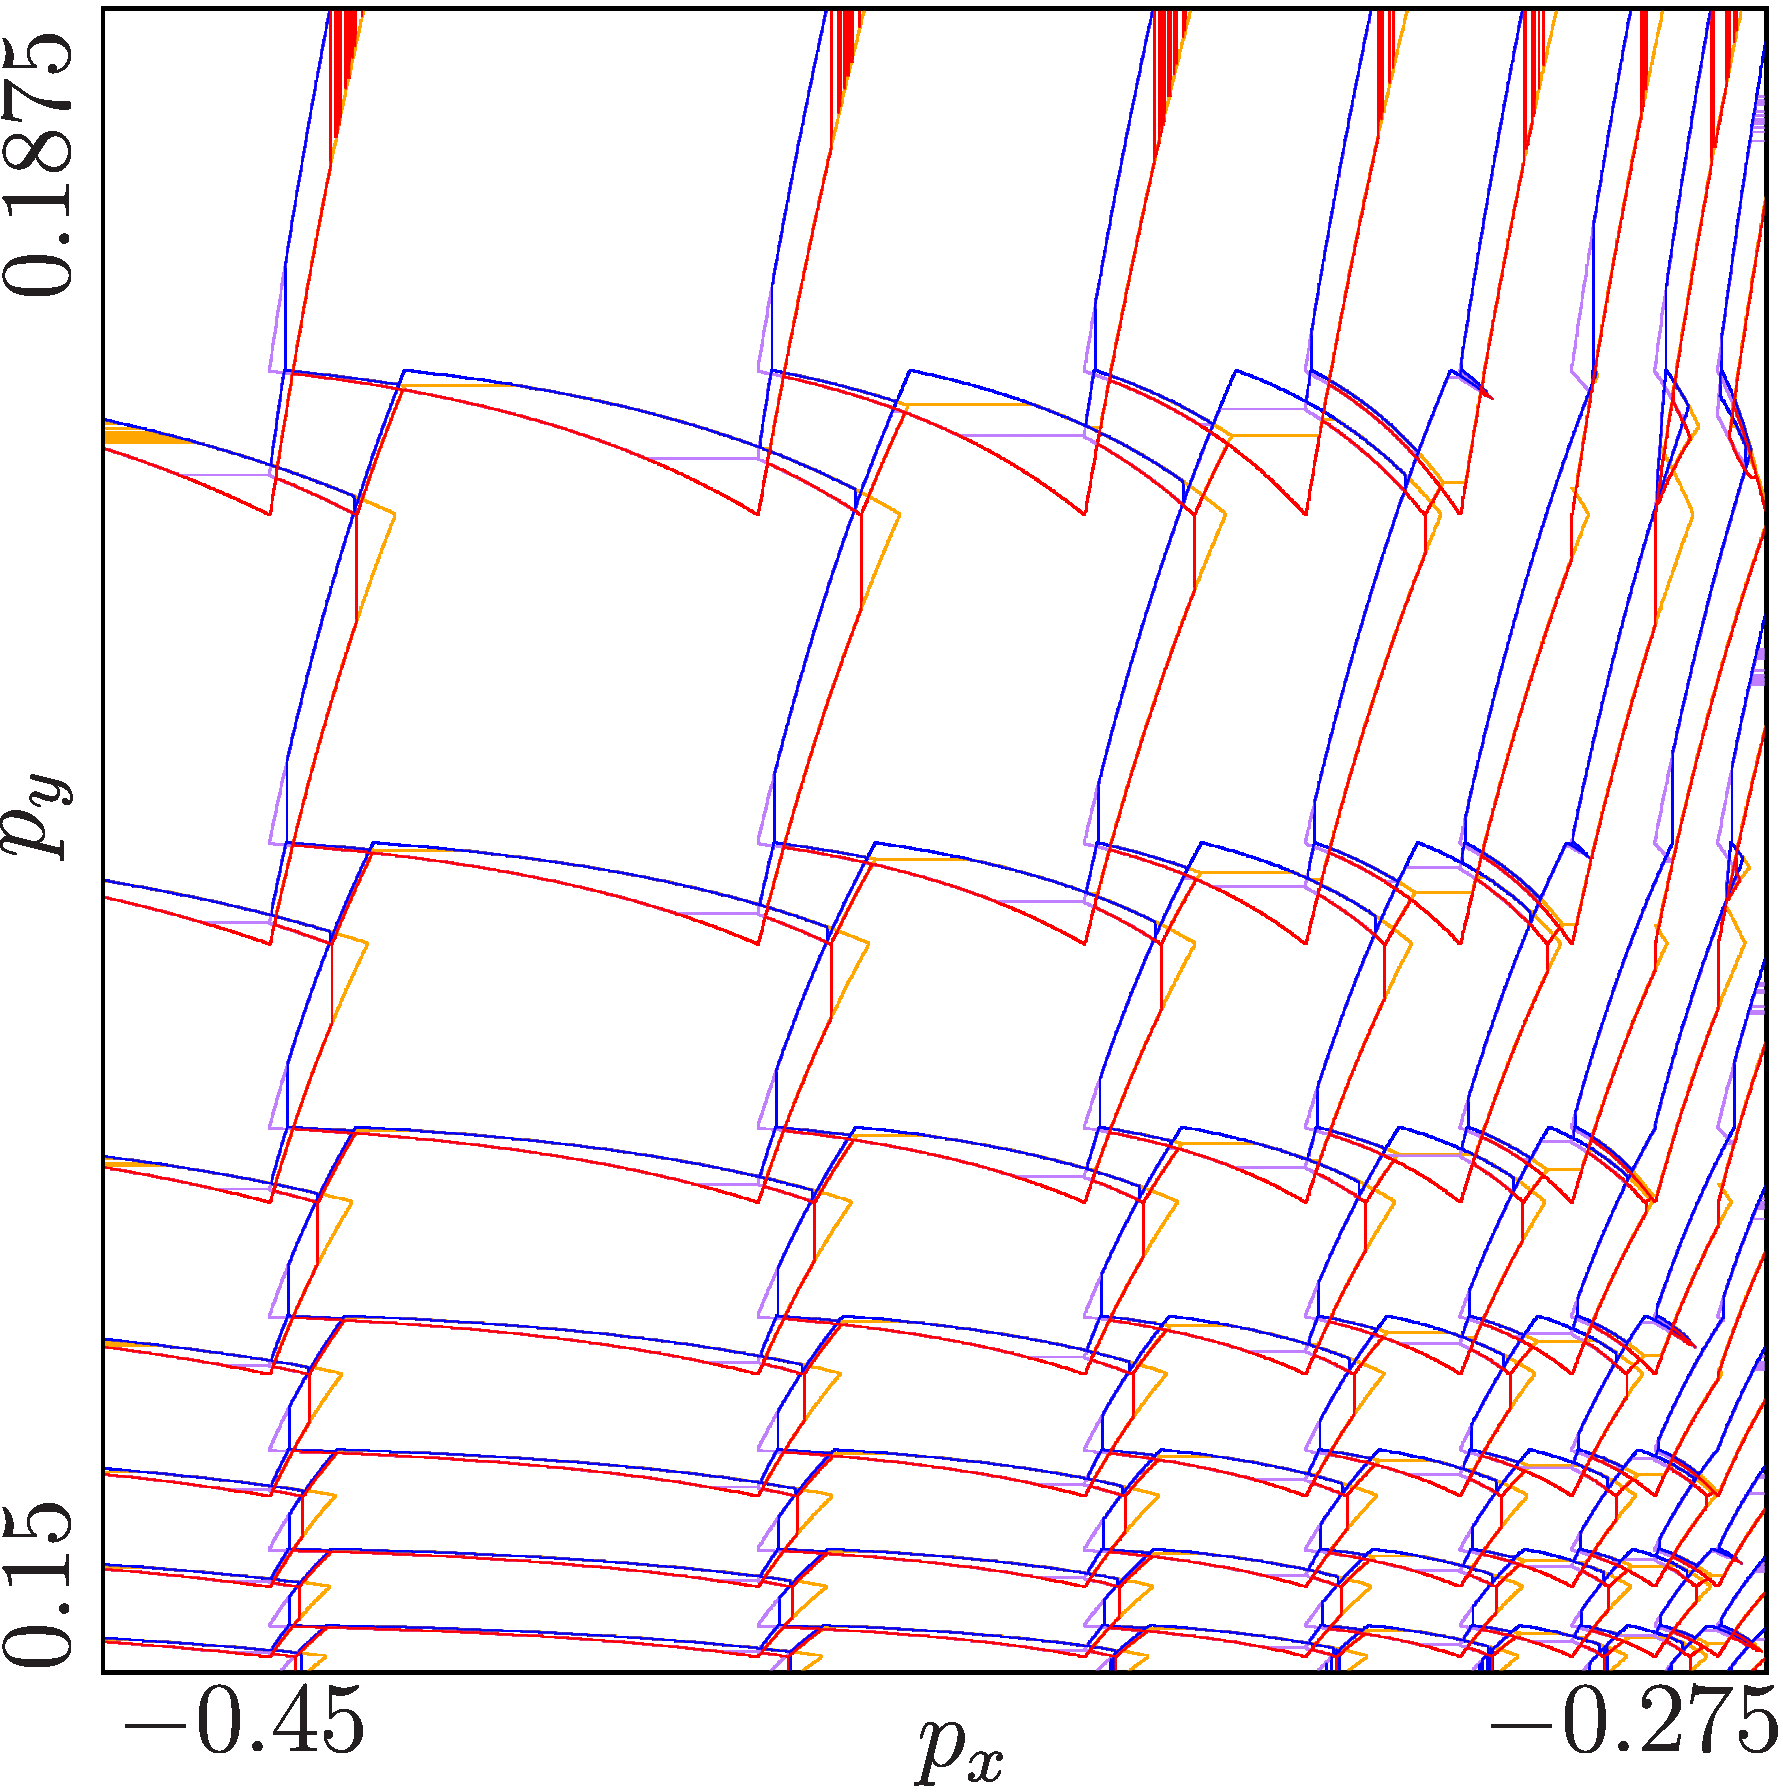
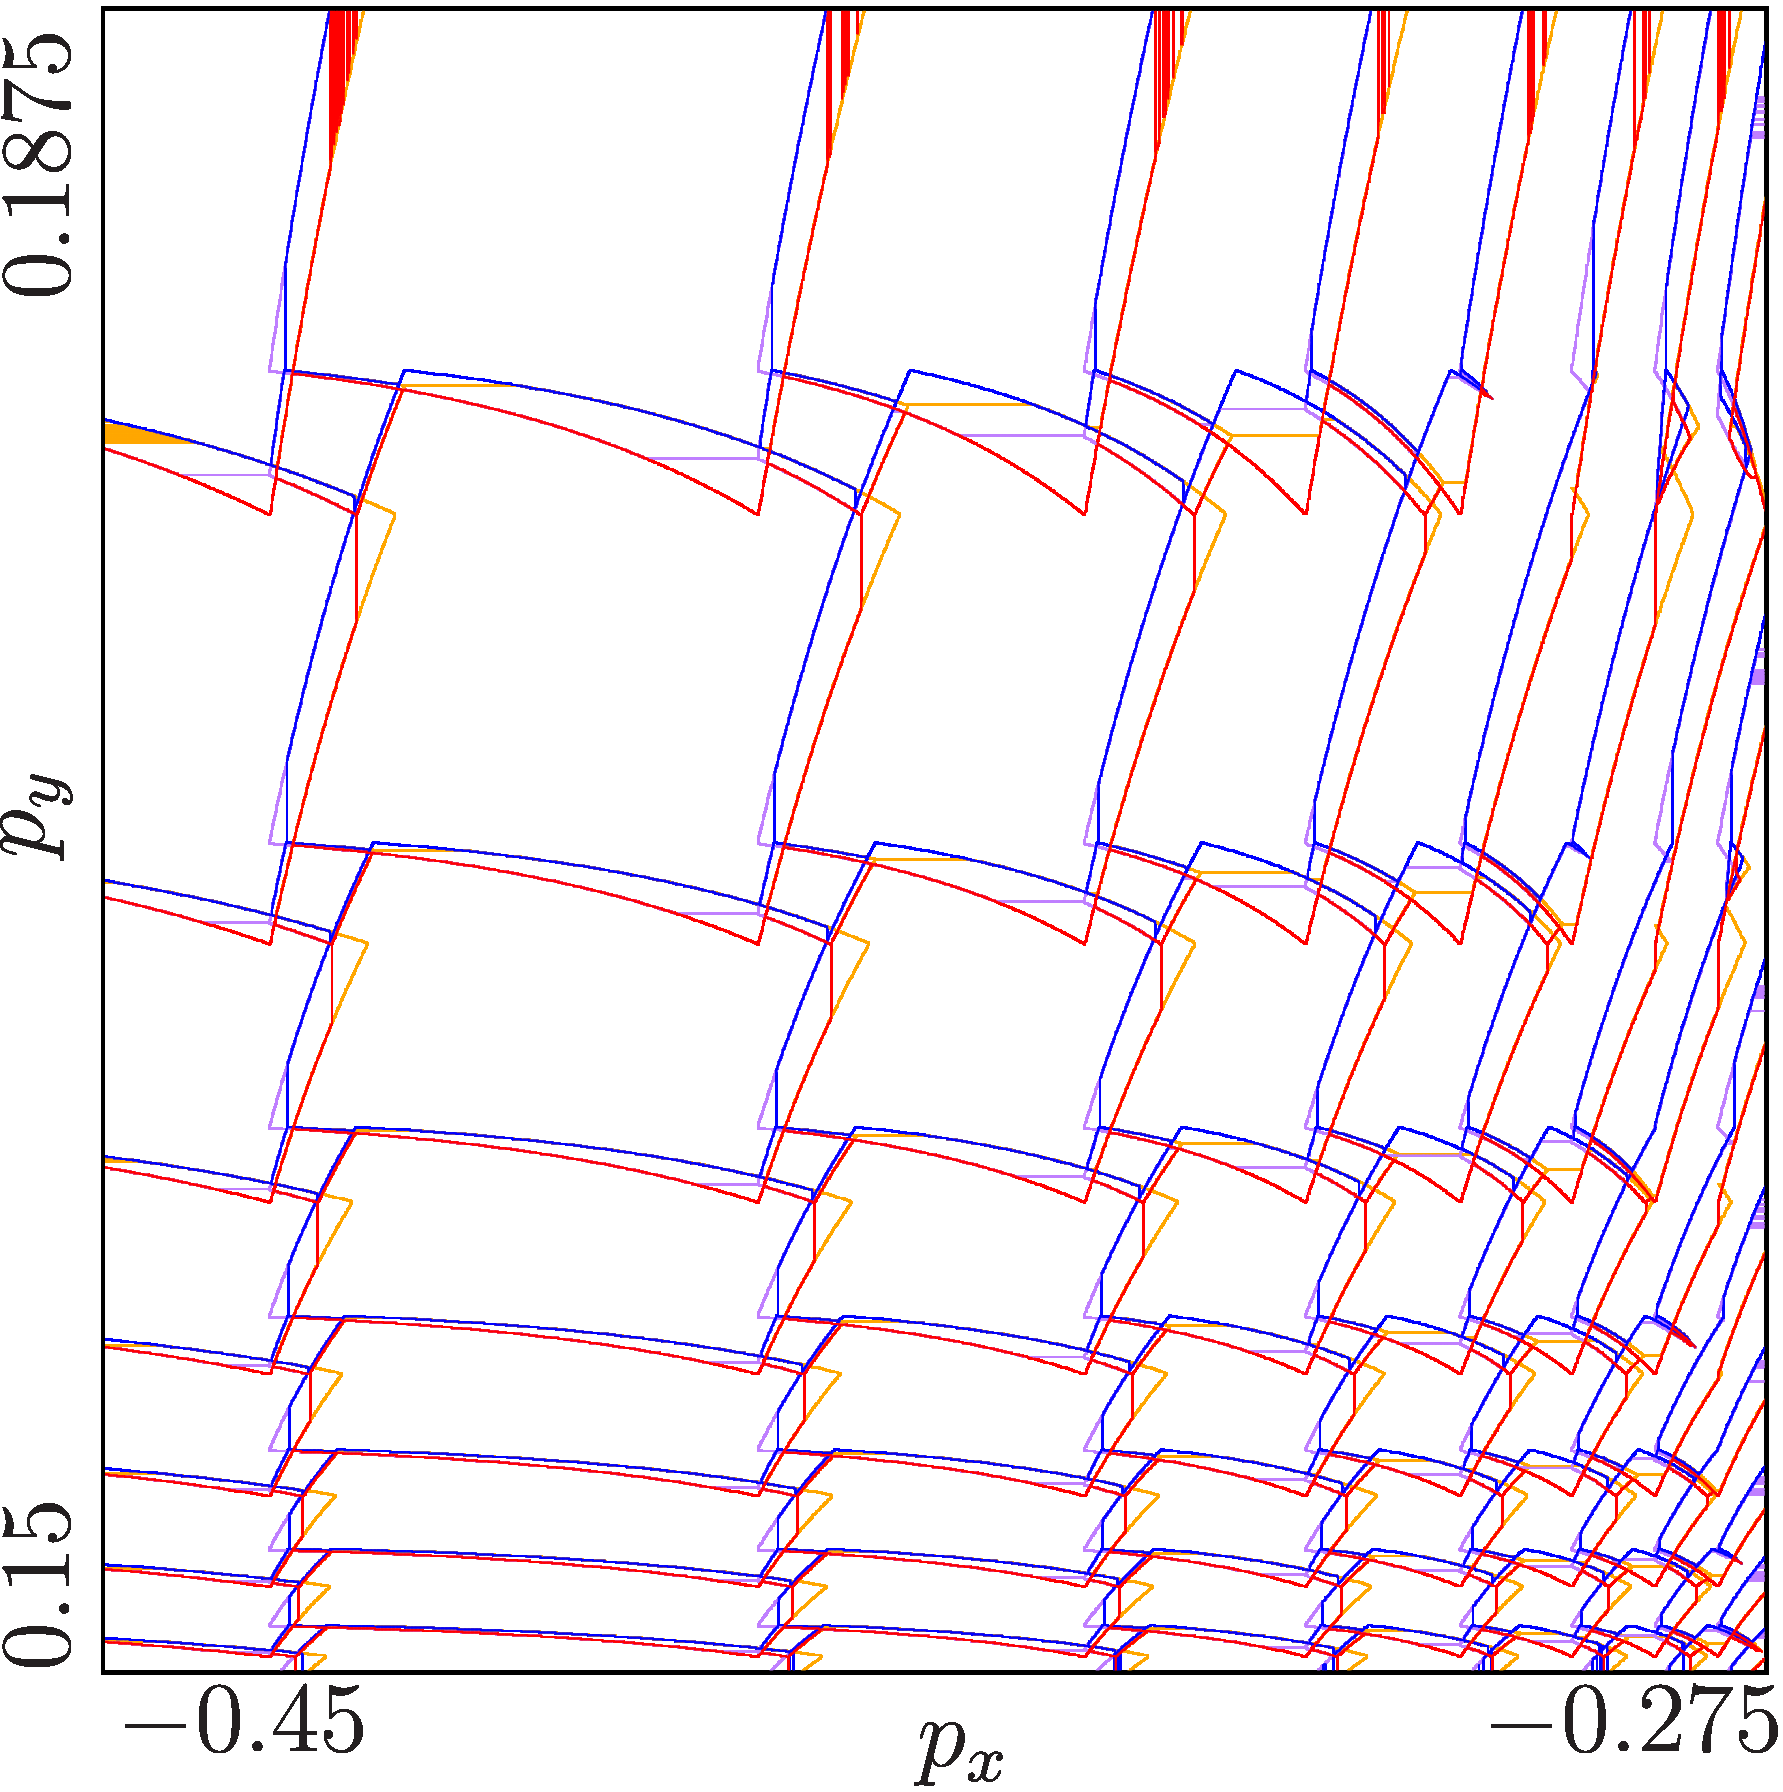
revert regions to old method

diff --git a/Simulation/Models/60_Final/model.cpp b/Simulation/Models/60_Final/model.cpp
@@ -47,8 +47,8 @@ bool f(
     }
 
     // Normalize
-    if (y > 1 * n) {
-        y -= 1 * n;
+    if (y >= 2 * n) {
+        y -= 2 * n;
     }
 
     RHS[0] = y;
